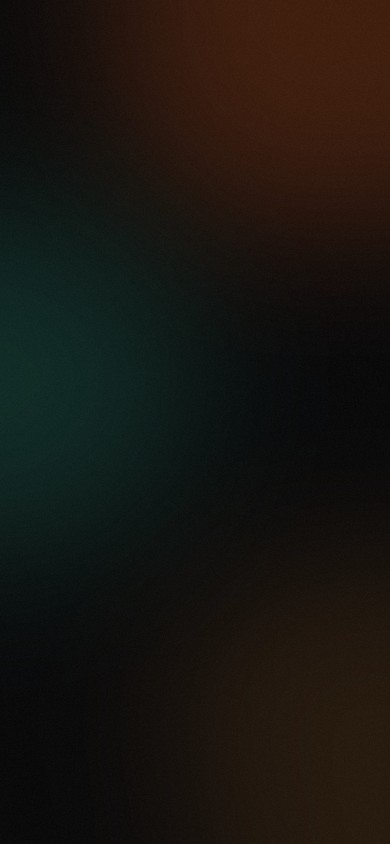
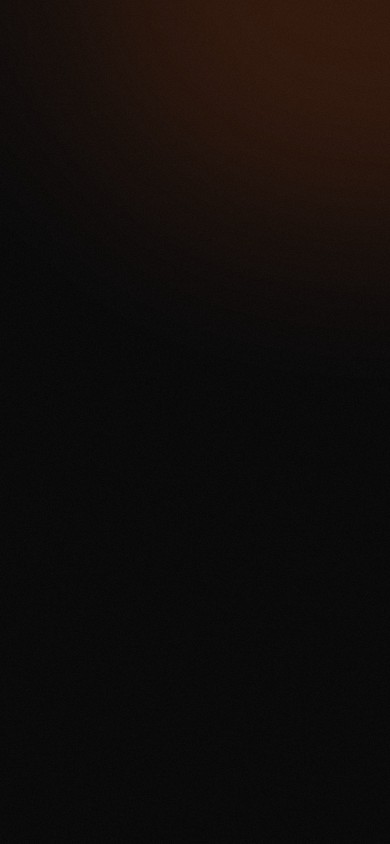
style(visual): pasada de contención para que no parezca una plantilla de IA
- Luz ambiental: una sola fuente tenue por pantalla en lugar de tres manchas
  de color (AmbientPeak recalculado).
- Fuera los halos: botón principal, Like, enviar, tarjeta del deck, modal de
  match y anillo del Pomodoro; Glow retirado.
- Fuera los galones del Like, el candado decorativo del onboarding y el icono
  de expandir del acuerdo.
- Etiquetas de cabecera en gris; el acento queda para la acción principal y
  para señales con significado (Nuevo, Lo que busca).
- Radios contenidos (card 30→22, sheet 34→26).
- Deck: el encaje en tinta de brasa sobre relleno tenue y la respuesta del
  prompt ocupando el hueco de la tarjeta en grande. «¡Match!» en blanco.

Changed region(s): [[0.6462, 0.7393, 1.0, 1.0], [0.0, 0.3081, 0.3385, 0.6161]]

diff --git a/src/app/(onboarding)/mode.tsx b/src/app/(onboarding)/mode.tsx
@@ -5,16 +5,14 @@ import Animated from 'react-native-reanimated';
 import { SafeAreaView } from 'react-native-safe-area-context';
 
 import { Screen } from '@/components/ambient-background';
-import { Glass } from '@/components/glass';
-import { Icon, type IconName } from '@/components/icon';
+import { type IconName } from '@/components/icon';
 import { enterUp } from '@/components/motion';
 import { ThemedText } from '@/components/themed-text';
-import { MaxContentWidth, Radii, Spacing } from '@/constants/theme';
+import { MaxContentWidth, Spacing } from '@/constants/theme';
 import { useRepositories, type ModePreference } from '@/data';
 import { MODE_OPTIONS, useRegistrationGate } from '@/features/profile';
 import { accountsAvailable } from '@/features/profile/account-gateway';
 import { OptionCard, PrimaryButton, SecondaryButton } from '@/features/profile/controls';
-import { useTheme } from '@/hooks/use-theme';
 
 /** Icono de cada modo: dos personas, un reloj de enfoque, dos círculos que se cruzan. */
 const MODE_ICONS: Record<ModePreference, IconName> = {
@@ -34,7 +32,6 @@ const MODE_ICONS: Record<ModePreference, IconName> = {
  * pantallas del alta a las que se puede llegar sin pasar por la otra.
  */
 export default function ModeScreen() {
-  const theme = useTheme();
   const router = useRouter();
   const repositories = useRepositories();
   const gate = useRegistrationGate();
@@ -66,10 +63,7 @@ export default function ModeScreen() {
       <SafeAreaView style={styles.root} edges={['top', 'bottom']}>
         <ScrollView contentContainerStyle={styles.content}>
           <Animated.View entering={enterUp(0)} style={styles.header}>
-            <Glass radius={Radii.large} style={styles.badge}>
-              <Icon name="lock" size={32} color={theme.text} strokeWidth={1.6} />
-            </Glass>
-            <ThemedText type="label" themeColor="brass">
+            <ThemedText type="label" themeColor="textSecondary">
               Paso 1 de 2
             </ThemedText>
             <ThemedText type="title">¿Qué buscas?</ThemedText>
@@ -130,13 +124,6 @@ const styles = StyleSheet.create({
   },
   header: {
     gap: Spacing.two,
-  },
-  badge: {
-    width: 64,
-    height: 64,
-    alignItems: 'center',
-    justifyContent: 'center',
-    marginBottom: Spacing.two,
   },
   options: {
     gap: Spacing.two,

diff --git a/src/features/discover/deck-actions.tsx b/src/features/discover/deck-actions.tsx
@@ -5,9 +5,8 @@
  * pantalla, movilidad reducida, ratón en web), así que toda decisión posible
  * con el dedo tiene que poder tomarse aquí también.
  *
- * Pasar es cristal, Like es brasa sólida con su halo: los dos dicen su nombre,
- * pero solo uno es «lo siguiente que haces» si la tarjeta te convence. Las
- * flechas del Like apuntan en la dirección del swipe que lo equivale.
+ * Pasar es cristal, Like es brasa sólida: los dos dicen su nombre, pero solo
+ * uno es «lo siguiente que haces» si la tarjeta te convence.
  */
 
 import { Pressable, StyleSheet, View } from 'react-native';
@@ -16,7 +15,7 @@ import Animated from 'react-native-reanimated';
 import { glassStyle } from '@/components/glass';
 import { Icon } from '@/components/icon';
 import { ThemedText } from '@/components/themed-text';
-import { Control, Elevation, Opacity, Radii, Spacing } from '@/constants/theme';
+import { Control, Opacity, Radii, Spacing } from '@/constants/theme';
 import { usePressScale } from '@/hooks/use-press-scale';
 import { useTheme } from '@/hooks/use-theme';
 
@@ -81,10 +80,7 @@ function ActionButton({
         style={({ pressed }) => [
           styles.button,
           like
-            ? {
-                backgroundColor: theme.brass,
-                boxShadow: `inset 0px 1px 0px #FFFFFF59, ${Elevation.dark.glow}`,
-              }
+            ? { backgroundColor: theme.brass }
             : glassStyle(theme, { elevated: true, radius: Radii.pill }),
           disabled ? styles.disabled : pressed && styles.pressed,
         ]}>
@@ -92,11 +88,6 @@ function ActionButton({
         <ThemedText type="bodyStrong" style={{ color }}>
           {label}
         </ThemedText>
-        {like ? (
-          <View style={styles.chevrons}>
-            <Icon name="chevrons" size={22} color={color} strokeWidth={2.2} />
-          </View>
-        ) : null}
       </Pressable>
     </Animated.View>
   );
@@ -120,10 +111,6 @@ const styles = StyleSheet.create({
     justifyContent: 'center',
     gap: Spacing.two,
     borderRadius: Radii.pill,
-  },
-  chevrons: {
-    position: 'absolute',
-    right: Spacing.three + Spacing.one,
   },
   pressed: {
     opacity: Opacity.pressed,

diff --git a/src/features/discover/profile-card.tsx b/src/features/discover/profile-card.tsx
@@ -17,7 +17,6 @@
 
 import { StyleSheet, View } from 'react-native';
 
-import { Glow } from '@/components/glow';
 import { ThemedText } from '@/components/themed-text';
 import { Radii, Spacing, Stroke, type ThemePalette } from '@/constants/theme';
 import {
@@ -54,7 +53,6 @@ export function ProfileCard({
   const theme = useTheme();
   const prompt = profile.prompts[0];
   const complement = complementWith(profile, viewerSpecialties);
-  const accent = profile.avatar.accent === 'teal' ? theme.teal : theme.brass;
 
   return (
     <View
@@ -66,9 +64,6 @@ export function ProfileCard({
           boxShadow: `inset 0px 1px 0px ${theme.glassHighlight}`,
         },
       ]}>
-      {/* El halo del color de la persona: la tarjeta es suya, no una ficha gris. */}
-      <Glow color={accent} opacity={0.5} style={styles.glow} />
-
       <View style={styles.hero}>
         <View style={styles.header}>
           <ProfileAvatar avatar={profile.avatar} />
@@ -135,7 +130,9 @@ export function ProfileCard({
           <ThemedText type="caption" themeColor="textMuted">
             {prompt.question}
           </ThemedText>
-          <ThemedText type="bodyStrong" numberOfLines={2}>
+          {/* La respuesta es lo que hace que un perfil se lea: ocupa el hueco que
+              queda, en grande, como la cita de una ficha. */}
+          <ThemedText type="subtitle" numberOfLines={4}>
             {prompt.answer}
           </ThemedText>
         </View>
@@ -231,12 +228,6 @@ const styles = StyleSheet.create({
     borderWidth: Stroke.hairline,
     overflow: 'hidden',
   },
-  glow: {
-    width: 340,
-    height: 340,
-    top: -190,
-    right: -120,
-  },
   hero: {
     gap: Spacing.two + Spacing.half,
     padding: Spacing.two,
@@ -292,7 +283,8 @@ const styles = StyleSheet.create({
     gap: Spacing.half,
   },
   prompt: {
-    marginTop: 'auto',
-    gap: Spacing.one,
+    flex: 1,
+    gap: Spacing.two,
+    overflow: 'hidden',
   },
 });

diff --git a/src/components/ambient-background.tsx b/src/components/ambient-background.tsx
@@ -1,11 +1,11 @@
 /**
  * Luz ambiental y lienzo de pantalla de la dirección «cristal».
  *
- * El cristal necesita algo detrás que refractar. En la referencia es una foto
- * oscurecida; aquí son tres manchas de color muy difusas (brasa, verde-azulado,
- * violeta) horneadas en una imagen. Pre-desenfocada a propósito: un desenfoque
- * en tiempo real sobre algo que ya es difuso costaría GPU en cada fotograma sin
- * cambiar nada a la vista, y la imagen pesa ~23 KB.
+ * El cristal necesita algo detrás que refractar. Aquí es una sola fuente de
+ * luz, tenue, que entra por arriba: la ventana de una habitación a oscuras.
+ * Una, no tres manchas de color: la luz difusa multicolor es la firma de la
+ * interfaz de plantilla. Pre-desenfocada a propósito: un desenfoque en tiempo
+ * real sobre algo que ya es difuso costaría GPU sin cambiar nada a la vista.
  *
  * Las imágenes salen de un script (ver `docs/plan/todo/visual.md`) y su punto
  * más claro es `AmbientPeak` en `theme.ts`: el test de contraste mide el cristal
@@ -17,11 +17,11 @@ import { Image, StyleSheet, View, type ViewProps } from 'react-native';
 import { useTheme } from '@/hooks/use-theme';
 
 const SOURCES = {
-  /** Brasa arriba a la derecha: Descubrir y la bienvenida. */
+  /** Luz cálida arriba a la derecha: Descubrir y la bienvenida. */
   ember: require('@/assets/images/ambient-ember.jpg'),
-  /** Verde-azulado arriba: Matches, chat. */
+  /** Luz fría arriba a la izquierda: Matches, chat. */
   teal: require('@/assets/images/ambient-teal.jpg'),
-  /** Violeta arriba: Perfil y formularios. */
+  /** Luz cálida y baja arriba al centro: Perfil y formularios. */
   plum: require('@/assets/images/ambient-plum.jpg'),
 } as const;
 

diff --git a/src/features/discover/match-modal.tsx b/src/features/discover/match-modal.tsx
@@ -22,7 +22,6 @@ import { Modal, StyleSheet, View } from 'react-native';
 import { BlurView } from 'expo-blur';
 import Animated, { ZoomIn, withSpring, withTiming } from 'react-native-reanimated';
 
-import { Glow } from '@/components/glow';
 import { enterUp } from '@/components/motion';
 import { ThemedText } from '@/components/themed-text';
 import {
@@ -79,7 +78,6 @@ export function MatchModal({
   const elevation = Elevation[useThemeName()];
   const reduceMotion = useReduceMotion();
   const complement = event ? complementWith(event.profile, viewerSpecialties) : [];
-  const accent = event?.profile.avatar.accent === 'teal' ? theme.teal : theme.brass;
 
   return (
     <Modal
@@ -103,14 +101,12 @@ export function MatchModal({
                 boxShadow: `inset 0px 1px 0px ${theme.glassHighlight}, ${elevation.overlay}`,
               },
             ]}>
-            <Glow color={accent} opacity={0.6} style={styles.glow} />
-
             <ThemedText type="label" themeColor="teal" style={styles.blurb}>
               Modo {modeLabel(event.match.mode)}
             </ThemedText>
 
             <Animated.View entering={reduceMotion ? undefined : enterUp(2)}>
-              <ThemedText type="display" themeColor="brass" style={styles.blurb}>
+              <ThemedText type="display" style={styles.blurb}>
                 ¡Match!
               </ThemedText>
             </Animated.View>
@@ -170,12 +166,6 @@ const styles = StyleSheet.create({
     borderRadius: Radii.sheet,
     borderWidth: Stroke.hairline,
     overflow: 'hidden',
-  },
-  glow: {
-    width: 420,
-    height: 420,
-    top: -110,
-    alignSelf: 'center',
   },
   identity: {
     alignItems: 'center',

diff --git a/src/components/button.tsx b/src/components/button.tsx
@@ -6,7 +6,7 @@
  * con su opacidad al pulsar. Ahora es uno: mismas medidas, mismo press state
  * (`usePressScale`) y la misma escala de `Opacity` en toda la app.
  *
- * - `primary`: brasa sólida con halo. Una por pantalla — es «lo siguiente que haces».
+ * - `primary`: brasa sólida y plana. Una por pantalla — es «lo siguiente que haces».
  * - `secondary`: cristal con canto fino. Alternativa sin peso.
  * - `danger`: cristal teñido de alerta. Descartar cambios, salir; nunca para
  *   juzgar a otra persona.
@@ -29,7 +29,7 @@ import { Pressable, StyleSheet, View, type StyleProp, type ViewStyle } from 'rea
 import Animated from 'react-native-reanimated';
 
 import { ThemedText } from '@/components/themed-text';
-import { Control, Elevation, Opacity, Radii, Spacing, Stroke } from '@/constants/theme';
+import { Control, Opacity, Radii, Spacing, Stroke } from '@/constants/theme';
 import { usePressScale } from '@/hooks/use-press-scale';
 import { useTheme } from '@/hooks/use-theme';
 
@@ -78,11 +78,6 @@ export function Button({
             primary
               ? {
                   backgroundColor: theme.brass,
-                  // Brillo en el canto y halo cálido: la única pieza de la
-                  // pantalla que emite luz es la que hay que pulsar.
-                  boxShadow: disabled
-                    ? undefined
-                    : `inset 0px 1px 0px #FFFFFF59, ${Elevation.dark.glow}`,
                 }
               : {
                   borderWidth: Stroke.hairline,

diff --git a/src/constants/theme.ts b/src/constants/theme.ts
@@ -80,7 +80,7 @@ export const Colors = {
  * (`assets/images/ambient-*.jpg`). Es el peor caso de contraste para la tinta
  * clara: el test compone cada superficie también sobre él.
  */
-export const AmbientPeak = '#462312';
+export const AmbientPeak = '#351C10';
 
 export type ThemeName = keyof typeof Colors;
 export type ThemeColor = keyof typeof Dark;
@@ -199,15 +199,16 @@ export const Spacing = {
 } as const;
 
 /**
- * Radios de esquina. Grandes y continuos, como en la referencia: el cristal no
- * tiene aristas. `pill` para chips, botones y la barra de pestañas.
+ * Radios de esquina. Suaves pero contenidos: el redondeo exagerado es lo
+ * primero que delata una interfaz de plantilla. `pill` solo para chips,
+ * botones y la barra de pestañas.
  */
 export const Radii = {
-  small: 10,
-  medium: 16,
-  large: 22,
-  card: 30,
-  sheet: 34,
+  small: 8,
+  medium: 12,
+  large: 16,
+  card: 22,
+  sheet: 26,
   pill: 999,
 } as const;
 

diff --git a/src/app/(tabs)/profile.tsx b/src/app/(tabs)/profile.tsx
@@ -116,7 +116,7 @@ export default function ProfileScreen() {
             cancelLabel="Descartar cambios"
             header={
               <View style={styles.header}>
-                <ThemedText type="label" themeColor="brass">
+                <ThemedText type="label" themeColor="textSecondary">
                   Editar perfil
                 </ThemedText>
                 <ThemedText type="title">Tu ficha</ThemedText>
@@ -132,7 +132,7 @@ export default function ProfileScreen() {
     <Screen ambient="plum">
       <SafeAreaView style={styles.root} edges={['top', 'bottom']}>
         <ScrollView contentContainerStyle={styles.content}>
-          <ThemedText type="label" themeColor="brass">
+          <ThemedText type="label" themeColor="textSecondary">
             Perfil
           </ThemedText>
 

diff --git a/src/features/session/pomodoro-ring.tsx b/src/features/session/pomodoro-ring.tsx
@@ -22,7 +22,6 @@ import Animated, {
 } from 'react-native-reanimated';
 import Svg, { Circle } from 'react-native-svg';
 
-import { Glow } from '@/components/glow';
 import { Curves, Duration } from '@/constants/theme';
 import { BLOCK_MINUTES, WORK_MINUTES } from '@/data';
 import { useReduceMotion } from '@/hooks/use-reduce-motion';
@@ -92,11 +91,6 @@ export function PomodoroRing({
 
   return (
     <View style={[styles.root, { width: size, height: size }]}>
-      <Glow
-        color={color}
-        opacity={0.35}
-        style={{ width: size * 1.5, height: size * 1.5, left: -size * 0.25, top: -size * 0.25 }}
-      />
       <Svg width={size} height={size} style={StyleSheet.absoluteFill}>
         <Circle
           cx={size / 2}

diff --git a/src/features/profile/controls.tsx b/src/features/profile/controls.tsx
@@ -100,12 +100,8 @@ export function OptionCard<T extends string>({
         },
       ]}>
       {icon ? (
-        <View
-          style={[
-            styles.optionIcon,
-            { backgroundColor: selected ? theme.brass : theme.backgroundSelected },
-          ]}>
-          <Icon name={icon} size={22} color={selected ? theme.onAccent : theme.text} />
+        <View style={[styles.optionIcon, { backgroundColor: theme.backgroundSelected }]}>
+          <Icon name={icon} size={22} color={selected ? theme.brass : theme.textSecondary} />
         </View>
       ) : null}
 

diff --git a/src/features/chat/message-composer.tsx b/src/features/chat/message-composer.tsx
@@ -13,7 +13,6 @@ import { useSafeAreaInsets } from 'react-native-safe-area-context';
 import { Icon } from '@/components/icon';
 import {
   Control,
-  Elevation,
   FontFamily,
   Opacity,
   Radii,
@@ -87,7 +86,6 @@ export const MessageComposer = forwardRef<TextInput, MessageComposerProps>(funct
           styles.send,
           {
             backgroundColor: canSend ? theme.brass : theme.backgroundSelected,
-            boxShadow: canSend ? Elevation.dark.glow : undefined,
             opacity: pressed ? Opacity.pressed : 1,
           },
         ]}>

diff --git a/src/features/session/session-card.tsx b/src/features/session/session-card.tsx
@@ -87,8 +87,8 @@ export function SessionCard({ match, me }: { match: MatchWithProfile; me: Profil
         },
       ]}>
       <View style={styles.header}>
-        <View style={[styles.badge, { backgroundColor: theme.brass }]}>
-          <Icon name="focus" size={18} color={theme.onAccent} strokeWidth={2} />
+        <View style={[styles.badge, { backgroundColor: theme.backgroundSelected }]}>
+          <Icon name="focus" size={18} color={theme.teal} />
         </View>
         <ThemedText type="heading">Sesión Lock-In</ThemedText>
       </View>
